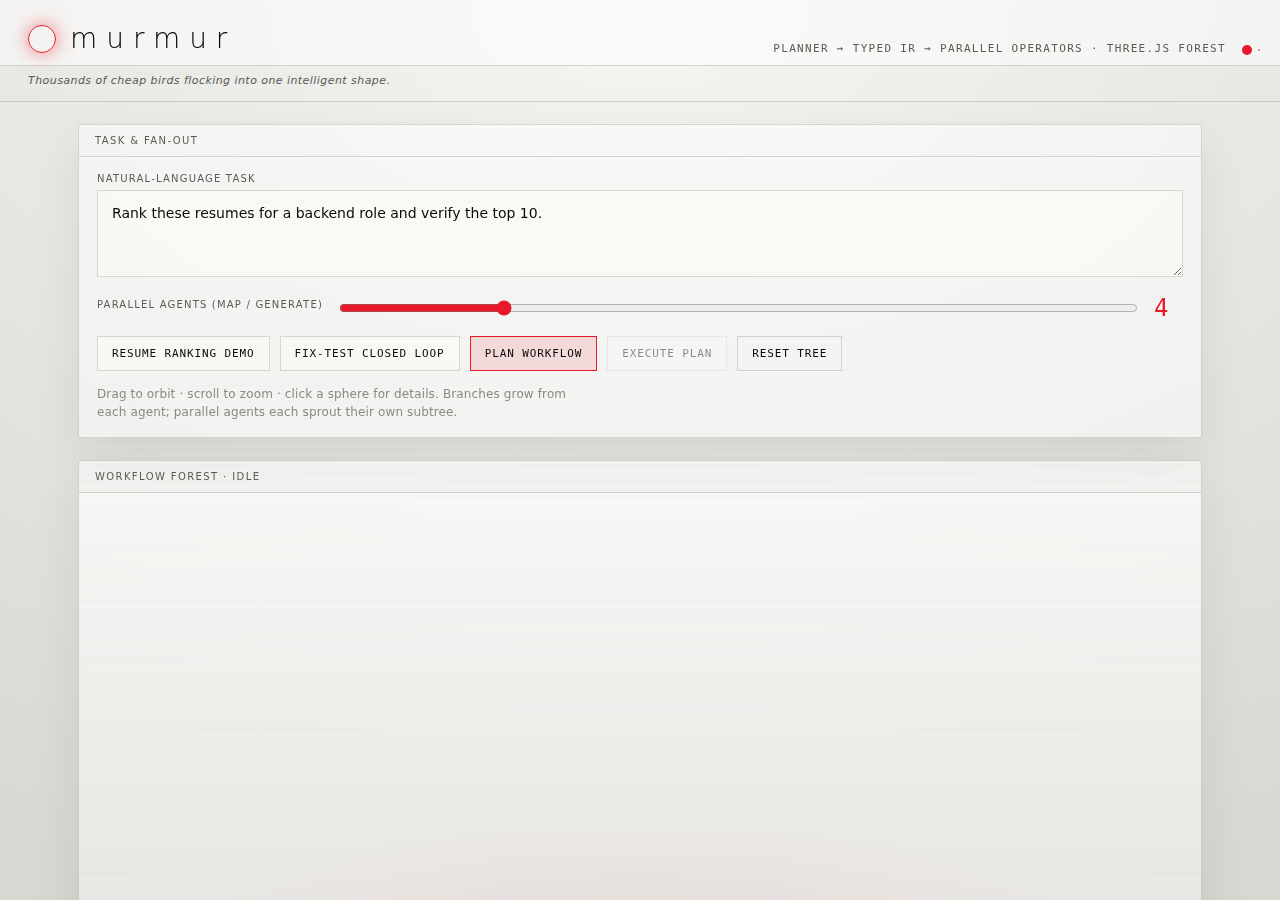
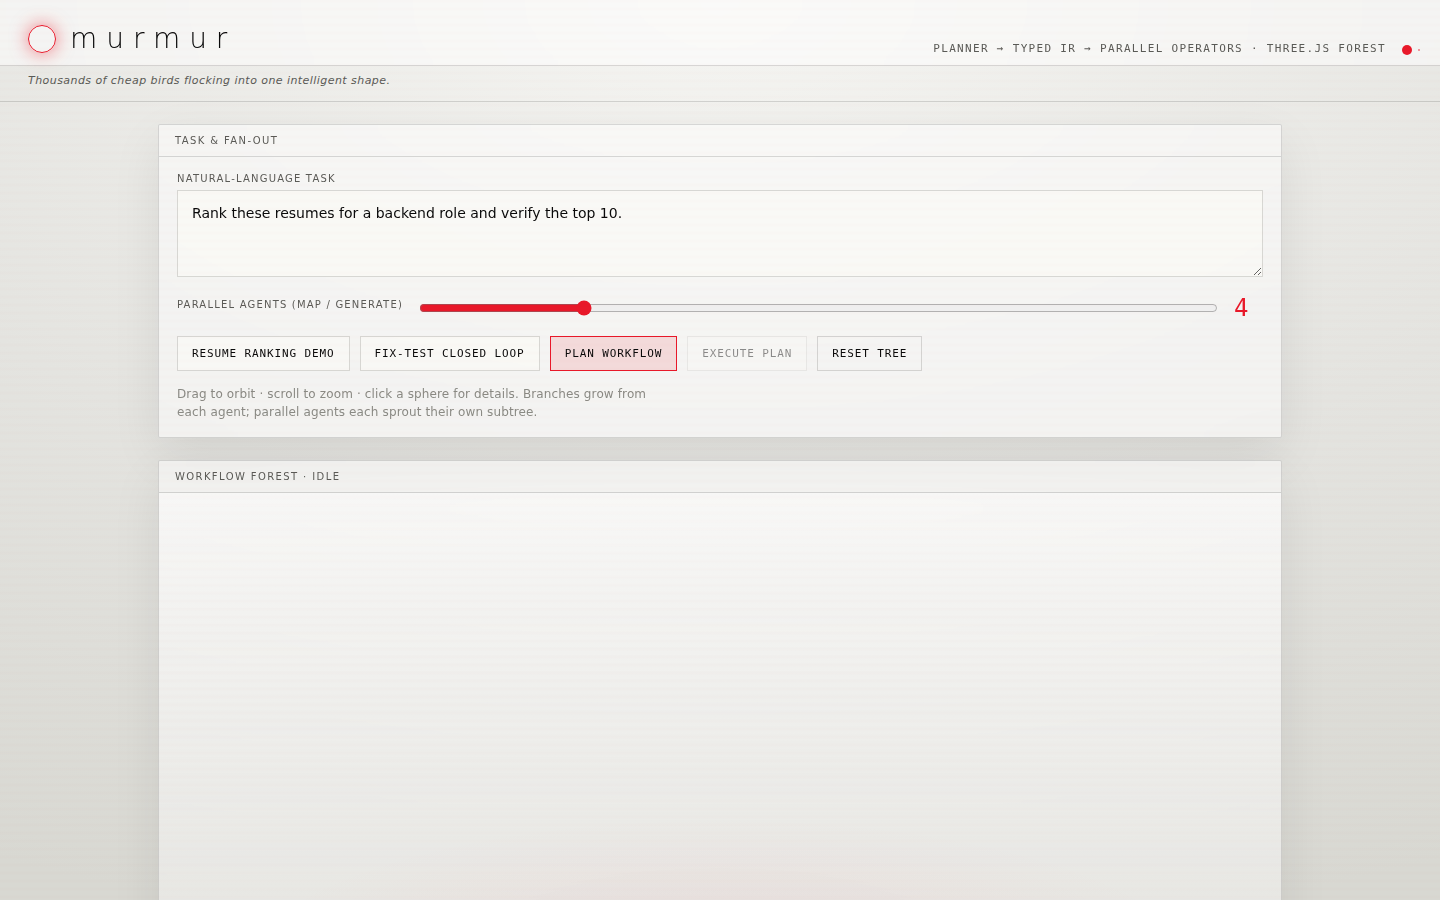
docs: professional README rewrite with trace viewer screenshot + project rename
- Rewrite README intro with professional Murmur description, comparison table,
  and detailed feature overview
- Add trace-viewer.png screenshot captured via Playwright
- Embed all three screenshots (workflow, fan report, trace viewer) in README
- Update pyproject.toml: rename to murmur-ai-harness, professional description
- Update GitHub origin URL to match renamed repo
- All 123 tests pass, ruff clean

diff --git a/README.md b/README.md
@@ -1,43 +1,66 @@
 <!--
-This is the repo entrypoint for humans. It explains what Murmur is, what works
-right now, and the commands needed to install, test, and run the local demo.
+Murmur — self-writing multi-agent orchestration for cost-efficient AI.
 -->
 
 # Murmur
 
 > *Thousands of cheap birds flocking into one intelligent shape.*
 
-Murmur is a self-writing multi-agent harness for cheap models. Give it a task
-and a cheap model (DeepSeek V4, or a local model via Ollama) — a **planner**
-writes its own task-specific workflow, and a **runtime** executes it by spawning
-many small subagents in parallel. Expensive patterns like fan-out, tournaments,
-and adversarial verification become pennies instead of dollars.
+**Murmur** is an open-source, self-writing multi-agent orchestration framework
+that makes frontier-grade AI workflows accessible on commodity models. Instead
+of hard-wiring agent graphs or paying premium rates for a single powerful model,
+Murmur's **planner** reads your task and *generates* its own typed workflow — a
+DAG of parallel subagents, adversarial verifiers, tournament rankers, and
+iterative repair loops — then its **runtime** executes that plan concurrently,
+merging results under a strict token budget.
 
-Murmur also includes a **contract and proof layer** for AI-generated code
-changes — turning a coding task into an enforceable engineering contract, running
-an agent through policy-controlled tools, verifying the resulting diff, and
-emitting a PR-ready proof package.
+### Why Murmur?
 
-The architecture is Python-first and hexagonal: the domain owns contracts,
-events, replay, metrics, and run orchestration; models, agents, storage,
-tracing, judges, and reports plug in through ports.
+| Approach | Workflow design | Model requirement | Cost |
+|---|---|---|---|
+| Static graphs (LangGraph, CrewAI) | Developer hand-codes | Any | Medium |
+| Claude Code dynamic workflows | Self-writing | Frontier only | High |
+| **Murmur** | **Self-writing** | **Cheap / local** | **~100× lower** |
+
+Heavy orchestration patterns — fan-out, tournaments, adversarial verification,
+closed-loop repair — become the *default* when each call costs fractions of a
+cent. Murmur manufactures reliability through **volume**, not model size.
+
+The framework also ships a **contract-and-proof layer** for AI-generated code
+changes: enforceable engineering contracts, policy-controlled tool execution,
+diff verification, and PR-ready proof packages — backed by distribution-aware
+reliability metrics (`pass@1` with Wilson CI, projected and empirical `pass^k`,
+divergence analysis, and cost-aware judgment cascades).
+
+The architecture is Python-first and hexagonal — the domain owns contracts,
+events, replay, metrics, and orchestration; models, agents, storage, tracing,
+judges, and reports plug in through ports.
+
+---
 
 ## Screenshots
 
-**Murmur Workflow Workbench** — interactive Three.js tree where you compose and
-execute multi-agent workflows:
+**Workflow Workbench** — interactive Three.js workspace for composing and
+visualizing multi-agent workflow DAGs in real time:
 
-![Murmur Workflow Workbench](docs/images/murmur-workflow.png)
+![Workflow Workbench](docs/images/murmur-workflow.png)
 
-**Reliability Fan Report** — pass@1, pass^k decay curve, divergence overlay,
-judgment cascade, and failure diagnosis from a seed-driven fan-out:
+**Reliability Fan Report** — pass@1 / pass^k decay curve, divergence overlay,
+judgment cascade, and failure diagnosis from a seed-driven N-trajectory fan-out:
 
 ![Reliability Fan Report](docs/images/fan-report.png)
 
+**Trace Viewer** — gen_ai.* span waterfall with per-trajectory timelines, token
+accounting, and an interactive inspector for every step of every run:
+
+![Trace Viewer](docs/images/trace-viewer.png)
+
+---
+
 ## Current slice
 
-This repo now includes the contract-first MVP plus the earlier reliability,
-trace, judgment, and CI-gate machinery from [docs/architecture.md](docs/architecture.md):
+This repo includes the contract-first MVP plus the reliability, trace, judgment,
+and CI-gate machinery from [docs/architecture.md](docs/architecture.md):
 
 - Contract-first `fix-test` execution: reproduce a failing command, compile a
   typed YAML contract, run a policy-controlled agent, verify the diff, and write
@@ -308,5 +331,5 @@ ran**; without them it exits with an actionable error rather than a placeholder.
 This checkout is configured for:
 
 ```bash
-origin https://github.com/Zwc-11/chorus.git   # pending rename to murmur
+origin https://github.com/Zwc-11/Murmur-ai-harness.git
 ```
